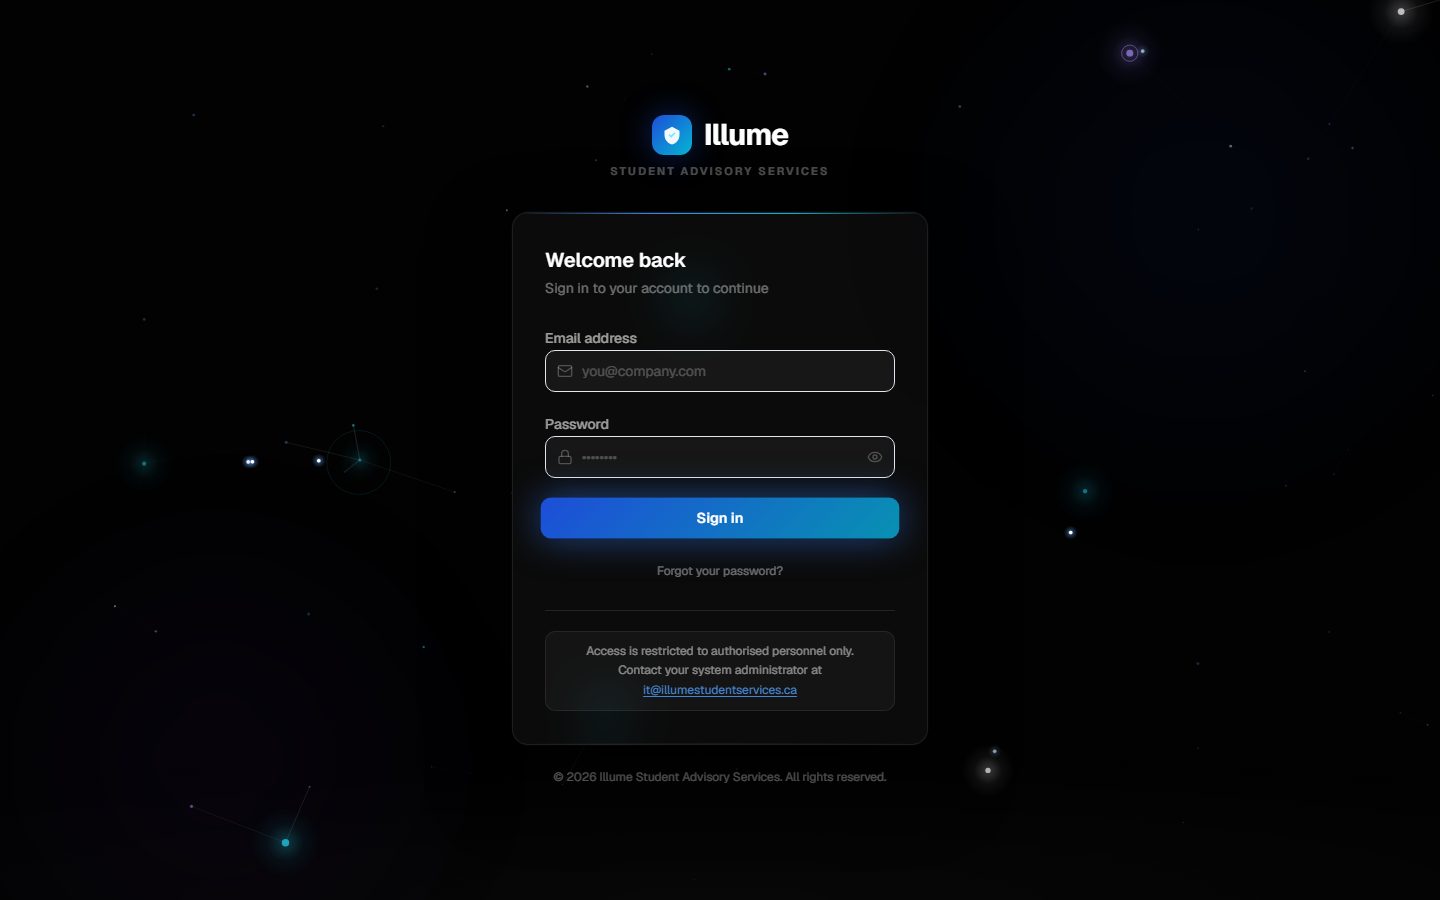
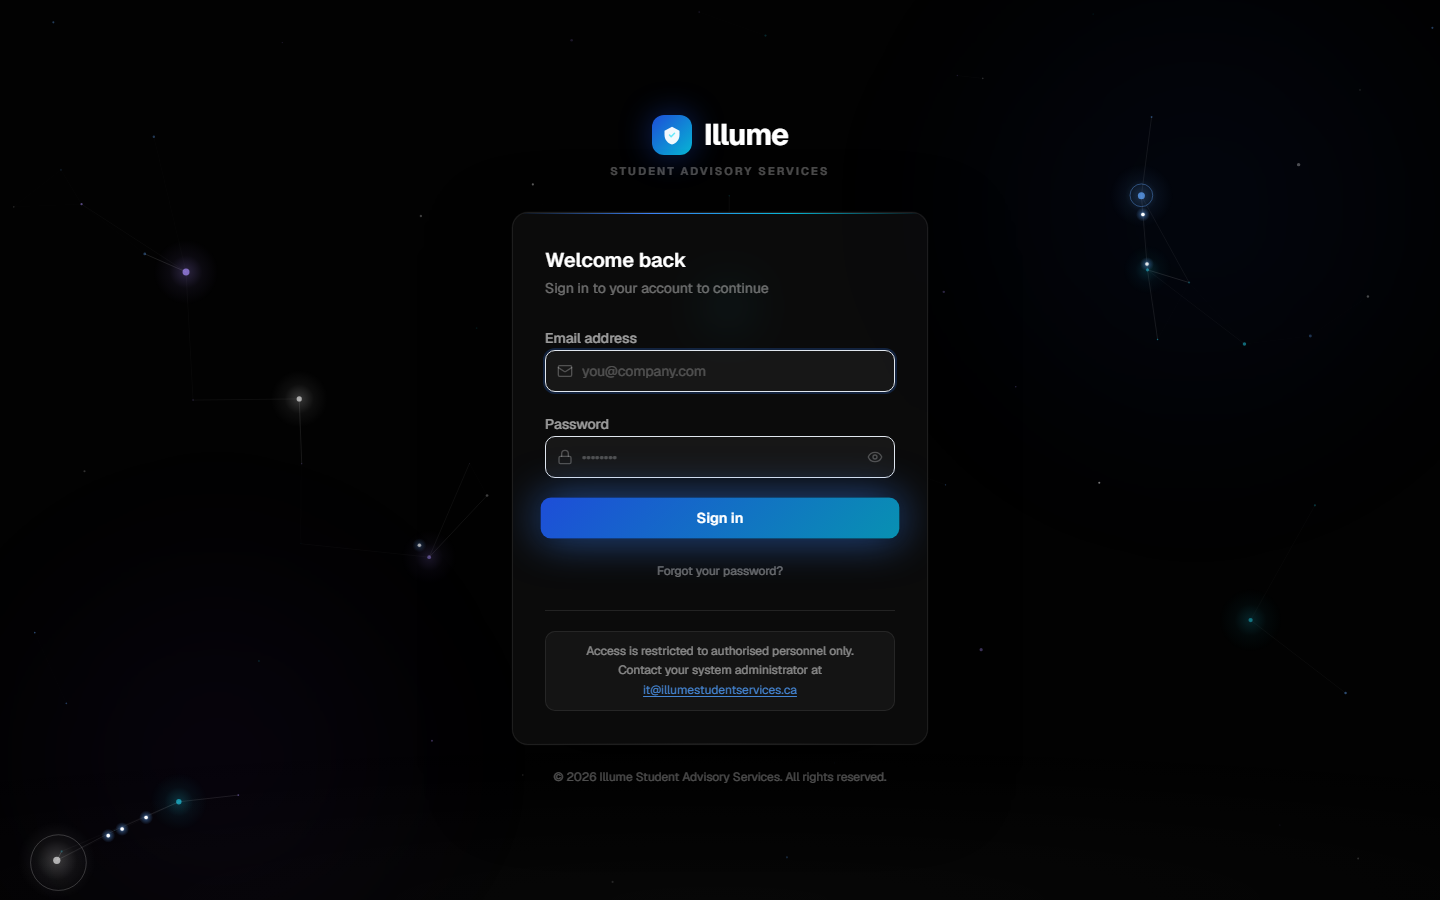
fix(security): prevent credentials leaking into URL and access logs
The login form had no method attribute, so before React hydrated a
submit fell back to a native GET — putting email and password into the
query string. Confirmed on production: 11 access-log lines contained
plaintext passwords, and the Referer header then leaked the same URL on
every subsequent request from that page.

Two layers of fix:
- form method="post" so a pre-hydration submit puts credentials in the
  request body rather than the URL
- submit button stays disabled until hydration, so submits always run
  through the signIn() handler

Production logs have been redacted separately.

diff --git a/app/(auth)/login/page.tsx b/app/(auth)/login/page.tsx
@@ -51,6 +51,10 @@ export default function LoginPage() {
   const [showPassword, setShowPassword] = useState(false);
   const [isLoading, setIsLoading] = useState(false);
   const [welcomeName, setWelcomeName] = useState<string | null>(null);
+  // Until React hydrates, the form would submit natively. The form is POST so
+  // credentials never reach the URL, but we also hold the button until the JS
+  // handler is live so submits always go through signIn().
+  const [hydrated, setHydrated] = useState(false);
 
   // Simple error state
   const [errorMsg, setErrorMsg] = useState<string | null>(null);
@@ -75,6 +79,8 @@ export default function LoginPage() {
   useEffect(() => {
     if (lockedUntil && countdown === 0) setLockedUntil(null);
   }, [countdown, lockedUntil]);
+
+  useEffect(() => { setHydrated(true); }, []);
 
   // Staggered entry animation
   useEffect(() => {
@@ -198,7 +204,9 @@ export default function LoginPage() {
         <p className="text-sm text-white/40">Sign in to your account to continue</p>
       </div>
 
-      <form onSubmit={handleSubmit(onSubmit)} noValidate className="space-y-5">
+      {/* method="post" matters: if this form ever submits before hydration, a
+          GET would put the password in the URL (and into access logs). */}
+      <form onSubmit={handleSubmit(onSubmit)} method="post" noValidate className="space-y-5">
         {/* Email */}
         <div ref={emailRef} className="space-y-1.5" style={{ opacity: 0 }}>
           <label className="text-sm font-medium text-white/60">Email address</label>
@@ -246,7 +254,7 @@ export default function LoginPage() {
         <button
           ref={btnRef}
           type="submit"
-          disabled={isLoading || isLocked}
+          disabled={isLoading || isLocked || !hydrated}
           onMouseEnter={handleBtnEnter}
           onMouseLeave={handleBtnLeave}
           onMouseDown={handleBtnDown}
@@ -254,7 +262,7 @@ export default function LoginPage() {
           className="w-full mt-2 py-2.5 px-4 rounded-lg text-sm font-semibold text-white flex items-center justify-center gap-2 disabled:opacity-60 disabled:cursor-not-allowed"
           style={{
             opacity: 0,
-            background: isLoading || isLocked
+            background: isLoading || isLocked || !hydrated
               ? "rgba(59,130,246,0.35)"
               : "linear-gradient(135deg, #1d4ed8 0%, #0891b2 100%)",
             boxShadow: "0 0 24px rgba(59,130,246,0.35), 0 2px 8px rgba(0,0,0,0.4)",
